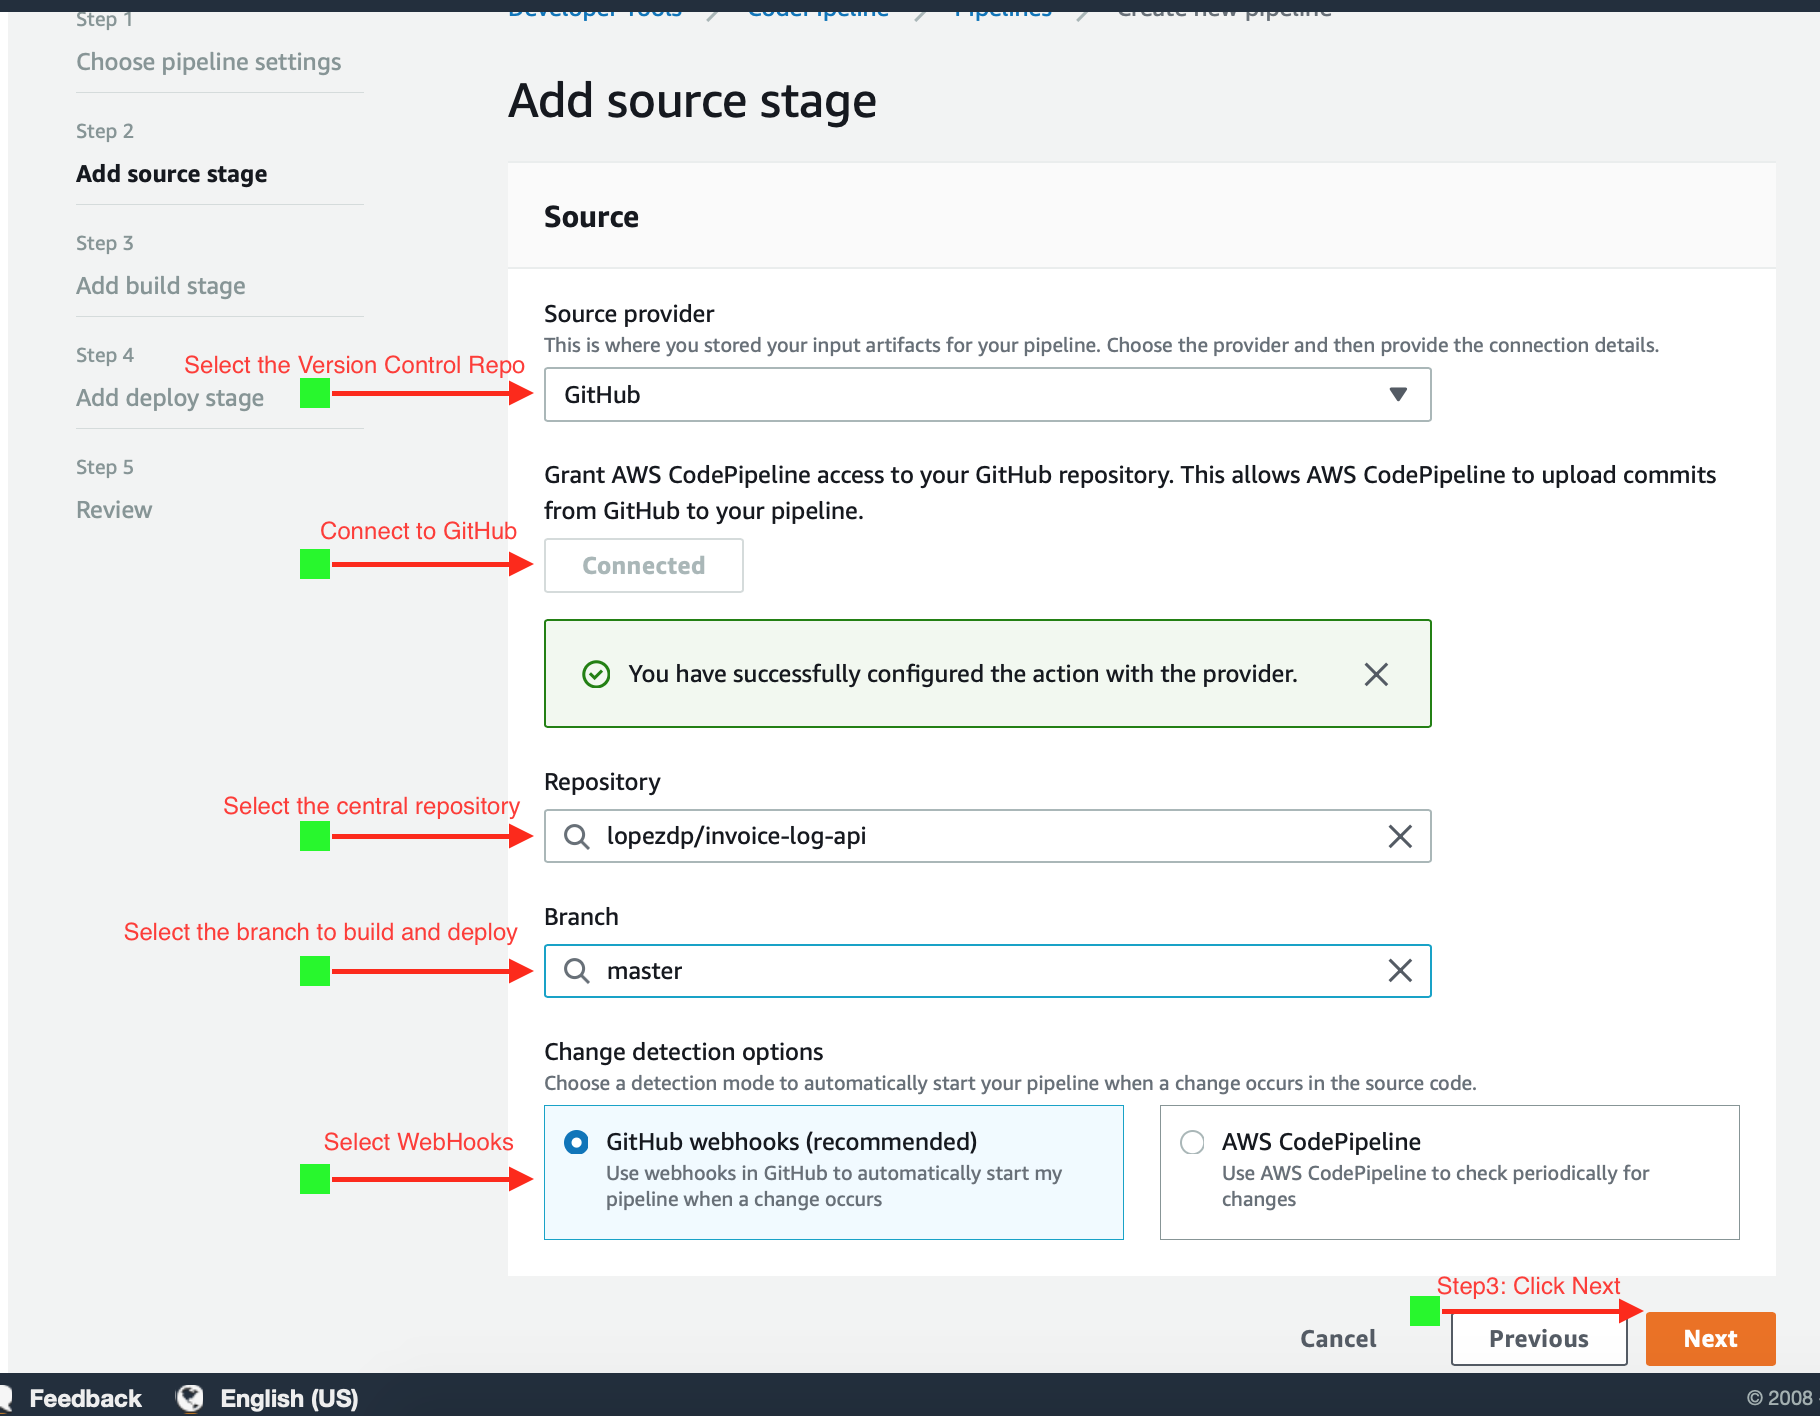
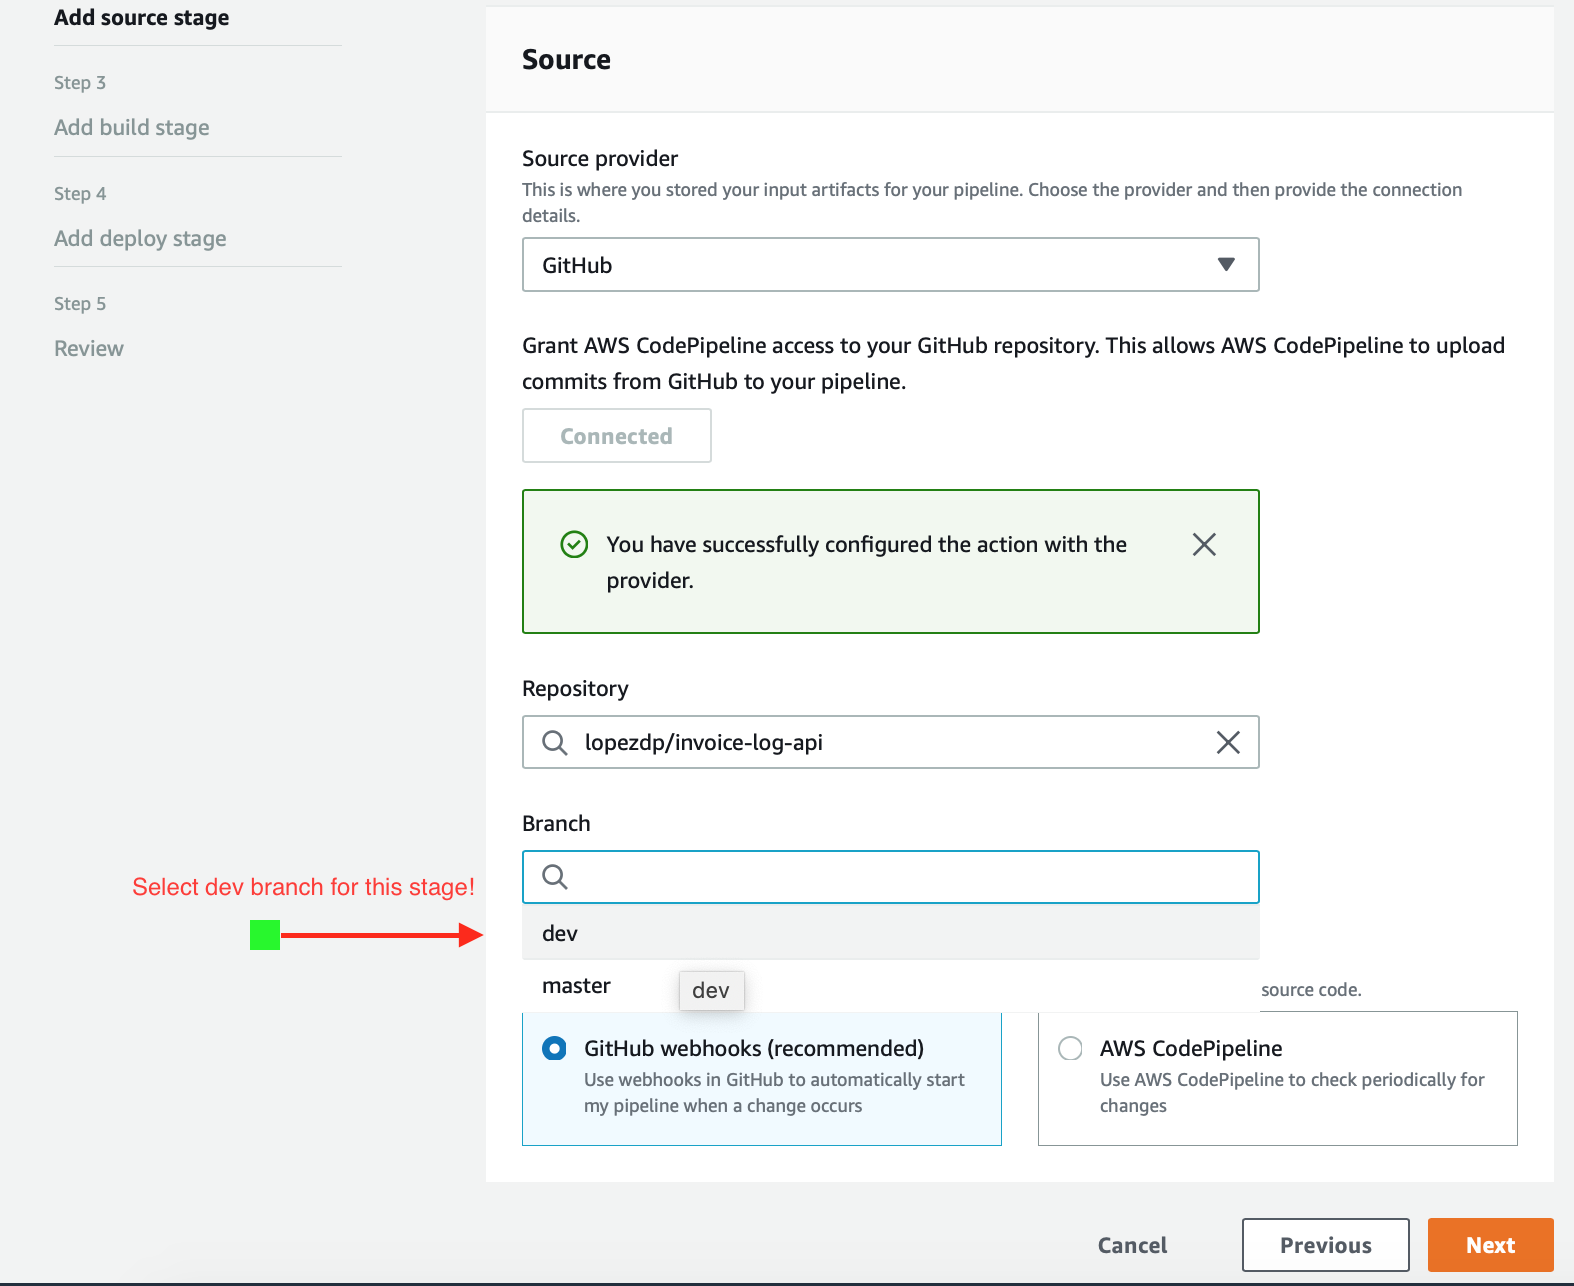
docs: updating code pipeline to deploy backend on cicd..

diff --git a/HowToReviewServiceToConfigureCICDpipeline.md b/HowToReviewServiceToConfigureCICDpipeline.md
@@ -609,9 +609,9 @@ Give your new [CodePipeline]() a name to remember in the `Pipeline Name` field. 
 
 Click on the **New Service Role** selection and just let [AWS Pipeline]() fill out the `Role Name` for you while letting it create the service role for you. You can also rename the Role name to something that makes more sense to you to better remember which roles you have allocated for the resources on your AWS account. 
 
-Please keep the Role name handy because we will need to find it within the AWS IAM service roles available to attach a few more permissions that this pipeline will need to continuously deploy changes through out pipeline.
+Please keep the Role name handy because we will need to find it within the AWS IAM service roles available to attach a few more permissions that this pipeline will need to continuously deploy changes through out pipeline. Make sure to allow AWS CodePipeline to create a service role so it can be used with this new pipeline
 
-Lastly, leave the default selection for the *Artifact Store* and let [Pipeline]() use any bucket it wnts to temporarily store your builds. Keep It Simple, Stupid. **Click Next**!
+Lastly, leave the default selection for the *Artifact Store*. Keep It Simple, Stupid. **Click Next**!
 
 ![alt text](https://github.com/lopezdp/TechnicalArticles/blob/master/img/PipelineSteps/Step02.Pipeline.png "CodePipeline Step 2!")
 
@@ -621,7 +621,9 @@ Here we need to define the `Source` repository where our application resides and
 
 ![alt text](https://github.com/lopezdp/TechnicalArticles/blob/master/img/PipelineSteps/Step03.Pipeline.png "CodePipeline Step 3!")
 
-When you proceed to the `Connect` dialog, this will trigger an authenticated connection between [GitHub]() and your new [CodePipeline](). Once connected, select the repo that you want to connect: `invoice-log-api`. Next, select the branch that you want [Pipeline]() to listen to, in our case this will be the `master` branch.
+When you proceed to the `Connect` dialog, this will trigger an authenticated connection between [GitHub]() and your new [CodePipeline](). Once connected, select the repo that you want to connect: `invoice-log-api-dev`. Next, select the branch that you want [Pipeline]() to listen to, in our case this will be the `dev` branch.
+
+Make sure you select the `dev` branch for this stage of our pipeline! Reserve the `master` branch for everything you push onto `prod` later!
 
 Use [GitHub Webhooks]() to start our [Pipeline]() and execute a `build` when changes occur. **Click Next** to complete this step.
 
@@ -631,11 +633,13 @@ Now it is time to select the `Build Provider` we will use to `build` our `source
 
 ![alt text](https://github.com/lopezdp/TechnicalArticles/blob/master/img/PipelineSteps/Step04a.Pipeline.png "CodePipeline Step 4a!")
 
-Next, go ahead and enter  the *Project Name* that you have defined in [CodeBuild](), **or** click on **Create Project** as shown in the image. You will be taken to another window to complete the *Project* setup step. We are naming our `build` *invoice-log-api*.
+Next, go ahead and enter the *Project Name* that you have defined in [CodeBuild](), **or** click on **Create Project** as shown in the image. You will be taken to another window to complete the *Project* setup step. We are naming our `build` *invoice-log-api-dev*. This is the `dev` pipeline so be sure to label it accordingly!
 
 ![alt text](https://github.com/lopezdp/TechnicalArticles/blob/master/img/PipelineSteps/Step04b.Pipeline.png "CodePipeline Step 4b!")
 
-We have to manage our environment and specify the `build` properties we need to have setup for us by [CodePipeline](). You need to select an **Environment Image** that specifies you to **Use an image managed by AWS CodeBuild**. Your **Operating System** must be specified as an **Ubuntu** OS. Your **Runtime** environment must be specified as **Node.js**, and from there proceed to select the latest **Version** available for the runtime environment you selected.
+We have to manage our environment and specify the `build` properties we need to have setup for us by [CodePipeline](). You need to select an **Environment Image** that asks you to select **Use an image managed by AWS CodeBuild**, or a custom image. Select the default choice and go ahead and go with **Use an image managed by AWS CodeBuild**. Your **Operating System** must be specified as an **Ubuntu** OS and your **Runtime** environment must be specified as **Standard**. 
+
+Next we must select an **Image** that we will use on the AWS Cloud to build our application. In our specific case because we like to keep our systems as updated as we possibly can be we are choosing to go with the `aws/codebuild/standard:2.0` image selection. We will choose to keep our image version updated for this runtime version to complete this step. This is an important configuration step because it will require that all of our custom `buildspec.yml` files use the `version: 0.2` declaration at the start of the file.
 
 ![alt text](https://github.com/lopezdp/TechnicalArticles/blob/master/img/PipelineSteps/Step04c.Pipeline.png "CodePipeline Step 4c!")
 
